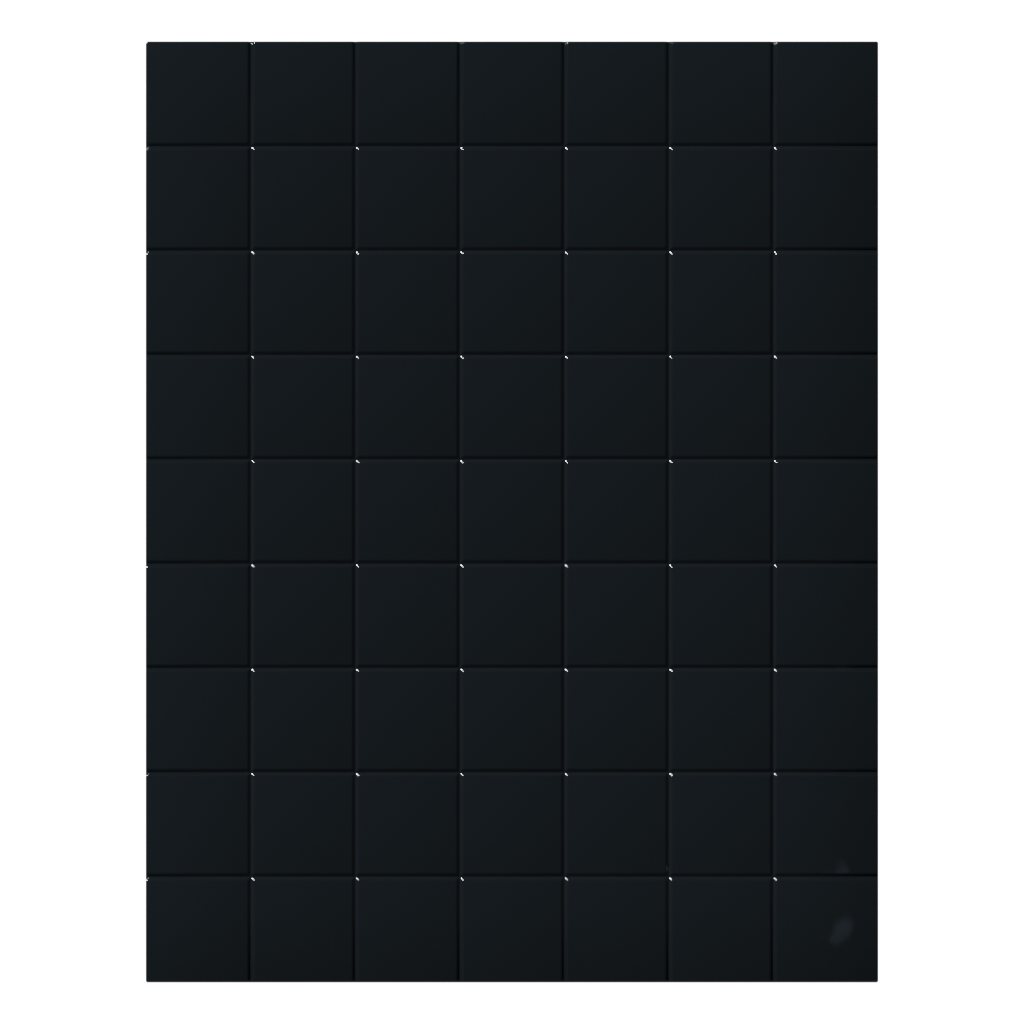
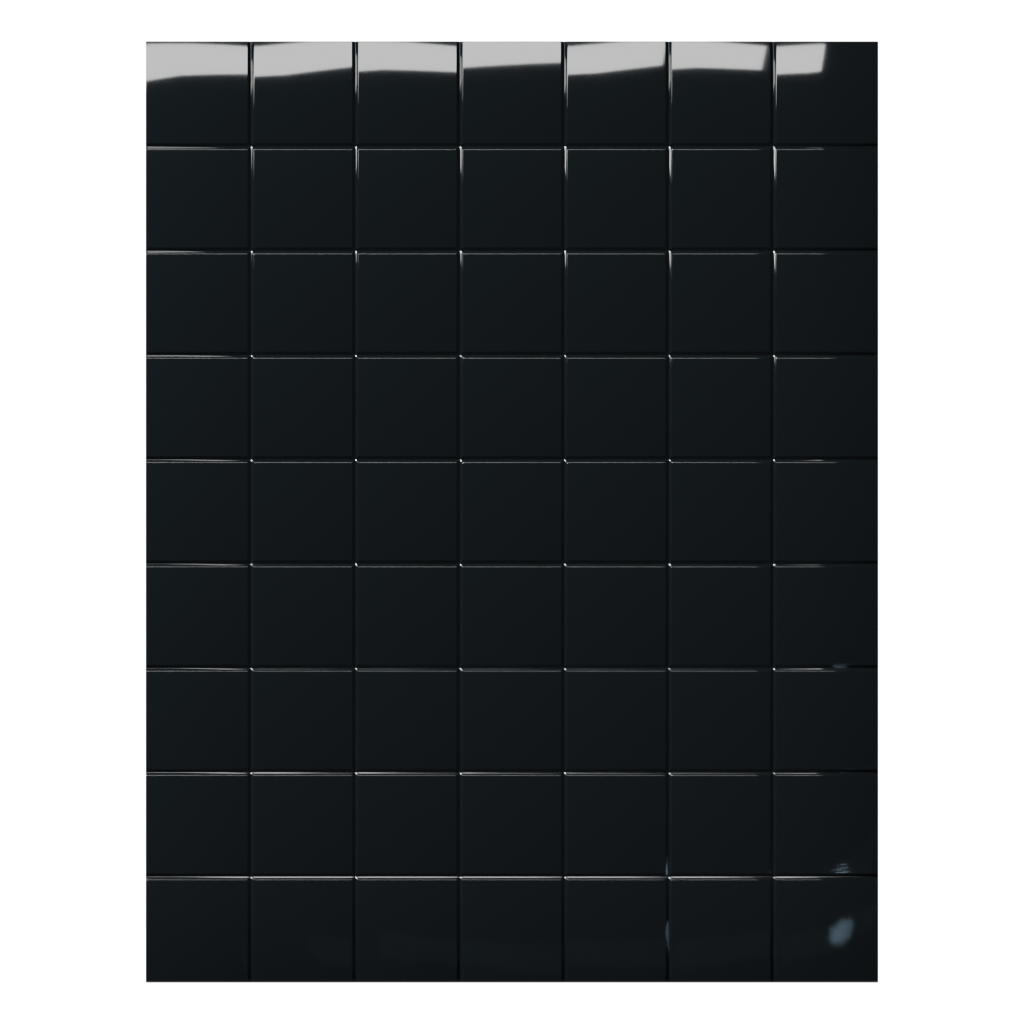
Put the saved glass on the board, and give it something to reflect
Two things were missing for the sheet to read as glass.

The material: `GLASS_PRESET` is the recipe in code, but the MATERIAL
was tuned in legacy-machine.blend as `piece-glass`. The board appends
it now rather than rebuilding an approximation, so it is the same
glass and a change made to it over there arrives here. Its pale blue
body does not come with it - that is the colour the source parts are
cut from, and a board in it looks like bathroom tile - only its
roughness, IOR, transmission and coat.

The reflection: glass reads by what it mirrors, and the sun gives a
flat face nothing but a pinpoint, so the surface between the lines was
a dark film whatever its material said. A long narrow softbox, turned
off square, sweeps a broad band across the sheet - which is what the
drawn pane was faking with two painted streaks.

Also a tighter bevel: at 0.012 every cell rounded into its own slab
and the sheet read as a grid of tiles rather than one pane with lines
scored into it.

diff --git a/src/game/objects/itemSprites.ts b/src/game/objects/itemSprites.ts
@@ -135,7 +135,7 @@ export function itemSpriteKey(typeId: string, tier: number): string {
  * A version in the query string makes the URL new, so every client refetches
  * once and then caches again normally.
  */
-export const ITEM_ART_VERSION = 44;
+export const ITEM_ART_VERSION = 45;
 
 /** Where the renderer writes it, relative to `public/`. */
 export function itemSpritePath(typeId: string, tier: number): string {

diff --git a/tools/blender/render_items.py b/tools/blender/render_items.py
@@ -3134,6 +3134,45 @@ BOARD_SCORE_WIDTH = 0.034
 BOARD_THICKNESS = 0.22
 
 
+def board_glass_material():
+    """The saved glass, appended from the project it was tuned in.
+
+    `GLASS_PRESET` is the recipe in code; the MATERIAL lives in
+    legacy-machine.blend as `piece-glass`, which is the one the glass
+    family's own parts are cut from. Appending it means the board is
+    the same glass rather than a second attempt at it - and a change
+    made to it over there arrives here.
+
+    Falls back to building the recipe if the file is not there, so a
+    fresh checkout still renders.
+    """
+    name = "board-glass"
+    existing = bpy.data.materials.get(name)
+    if existing is not None:
+        bpy.data.materials.remove(existing)
+    here = os.path.dirname(os.path.abspath(__file__))
+    library = os.path.join(here, "legacy-machine.blend")
+    if os.path.exists(library):
+        with bpy.data.libraries.load(library, link=False) as (src, dst):
+            if "piece-glass" in src.materials:
+                dst.materials = ["piece-glass"]
+        appended = dst.materials[0] if dst.materials else None
+        if appended is not None:
+            appended.name = name
+            # ITS SURFACE, NOT ITS COLOUR. `piece-glass` is the pale
+            # blue the source parts are cut from; a board in it looks
+            # like bathroom tile. The roughness, IOR, transmission and
+            # coat are the point - the body goes dark.
+            _shader(appended).inputs["Base Color"].default_value = (
+                *(srgb_to_linear((BOARD_GLASS >> shift) & 255)
+                  for shift in (16, 8, 0)), 1.0)
+            return appended
+    glass = tier_material(name, BOARD_GLASS, BOARD_GLASS, max_gain=1.0)
+    gemstone(glass, **GLASS_PRESET)
+    polished(glass, coat_roughness=0.05)
+    return glass
+
+
 def build_board_slab():
     """A sheet of glass with the cell boundaries cut into it.
 
@@ -3176,29 +3215,12 @@ def build_board_slab():
         bpy.ops.object.modifier_apply(modifier=modifier.name)
         bpy.data.objects.remove(cutter, do_unlink=True)
 
-    glass = tier_material("board-glass", BOARD_GLASS, BOARD_GLASS, max_gain=1.0)
+    glass = board_glass_material()
     # THE FAMILY'S OWN GLASS RECIPE, the same call the glass items use:
     # `gemstone` sets the lifted base, the transmission, the IOR and the
     # roughness together, which is what GLASS_PRESET exists to stop
     # being re-derived by hand at every site.
-    body_colour = _shader(glass).inputs["Base Color"].default_value[:]
-    gemstone(glass, **GLASS_PRESET)
-    # ... EXCEPT ITS BASE AND ITS TRANSMISSION.
-    #
-    # `gemstone` lifts the base toward white - a tint multiplies along
-    # the whole path through a solid, so an unlifted one comes back
-    # black. There is no path through a sheet at 0.18, so the lift only
-    # washes it: a near-black board came out mid grey. Put back.
-    _shader(glass).inputs["Base Color"].default_value = body_colour
-    # ... EXCEPT ITS TRANSMISSION. `gemstone` sets that to 1.0, which is
-    # right for a solid held up in a studio and wrong for a sheet with
-    # a transparent film behind it: there is nothing back there to
-    # transmit, so the board renders black and the sun refracts into a
-    # bright caustic at every groove crossing. Held low, the preset's
-    # IOR and roughness still give the reflection and the body reads.
-    _shader(glass).inputs["Transmission Weight"].default_value = 0.18
-    polished(glass, coat_roughness=0.05)
-    finish(body, "board-slab", glass, bevel=0.012)
+    finish(body, "board-slab", glass, bevel=0.004)
     return body
 
 
@@ -3241,6 +3263,30 @@ def render_board():
     # groove, grazing barely touches the flat face.
     sun.location = (-24.0, 24.0, 24.0)
     sun.rotation_euler = (-Vector(sun.location)).to_track_quat('-Z', 'Y').to_euler()
+
+    # A SOFTBOX FOR THE SHEET TO MIRROR, which is what actually says
+    # glass. The sun gives the grooves their lit and shadowed walls but
+    # a flat face has nothing to reflect except a pinpoint, so the
+    # surface between the lines came back as a dark film - the drawn
+    # pane had to fake exactly this with two painted streaks.
+    #
+    # Long, narrow and turned off square, so its reflection sweeps
+    # across the board as a broad diagonal band rather than sitting on
+    # it as a blob.
+    sheen_data = bpy.data.lights.get("BoardSheen") or bpy.data.lights.new("BoardSheen", type='AREA')
+    sheen_data.type = 'AREA'
+    sheen_data.shape = 'RECTANGLE'
+    sheen_data.size = 26.0
+    sheen_data.size_y = 3.0
+    sheen_data.energy = 2600.0
+    sheen = bpy.data.objects.get("BoardSheen")
+    if sheen is None:
+        sheen = bpy.data.objects.new("BoardSheen", sheen_data)
+        bpy.context.collection.objects.link(sheen)
+    sheen.data = sheen_data
+    sheen.location = (-7.0, 9.0, 13.0)
+    sheen.rotation_euler = (-Vector(sheen.location)).to_track_quat('-Z', 'Y').to_euler()
+    sheen.rotation_euler.rotate_axis("Z", math.radians(-34))
 
     configure_render()
     sc = bpy.context.scene
